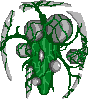
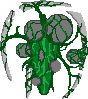
added enemy C art

diff --git a/js/ui.js b/js/ui.js
@@ -12,7 +12,6 @@ function uiOverlay() {
     this.shield = 1;
     this.ammo = 2;
     this.speedBurst = 3;
-    this.invincible = 4;
     this.messagesPosX = c.width/2;
     this.messagesPosY = c.height - 20;
     
@@ -191,11 +190,6 @@ function uiOverlay() {
             case this.speedBurst:
             this.uiBracketMovingTime = 30;
             colorText('MAX SPEED', this.messagesPosX, this.messagesPosY,'30px Courier', 'white','center');
-            break;
-
-            case this.invincible:
-            this.uiBracketMovingTime = 30;
-            colorText('INVINCIBLE', this.messagesPosX, this.messagesPosY,'30px Courier', 'white','center');
             break;
         }
     }

diff --git a/js/diverAlienClass.js b/js/diverAlienClass.js
@@ -23,7 +23,8 @@ function diverAlienClass() {
 
 	this.draw = function () {
 
-		colorRect(this.x, this.y, this.w, this.h, 'red');
+		//colorRect(this.x, this.y, this.w, this.h, 'red');
+		ctx.drawImage(imageArray["enemyC.png"], this.x, this.y);
 		colorText(this.hp, this.x + 60, this.y, "18px arial", "orange"); // hp indicator
 
 	}

diff --git a/js/images.js b/js/images.js
@@ -14,6 +14,7 @@ var imageNames = [
 	"enemyAalt.png",
 	"enemyAalt_shot.png",
 	"enemyB.png",
+	"enemyC.png",
 	"Level_1_Background.png",
 	"PlayerSpaceship_chris.png",
 	"greeblicious.gif",
